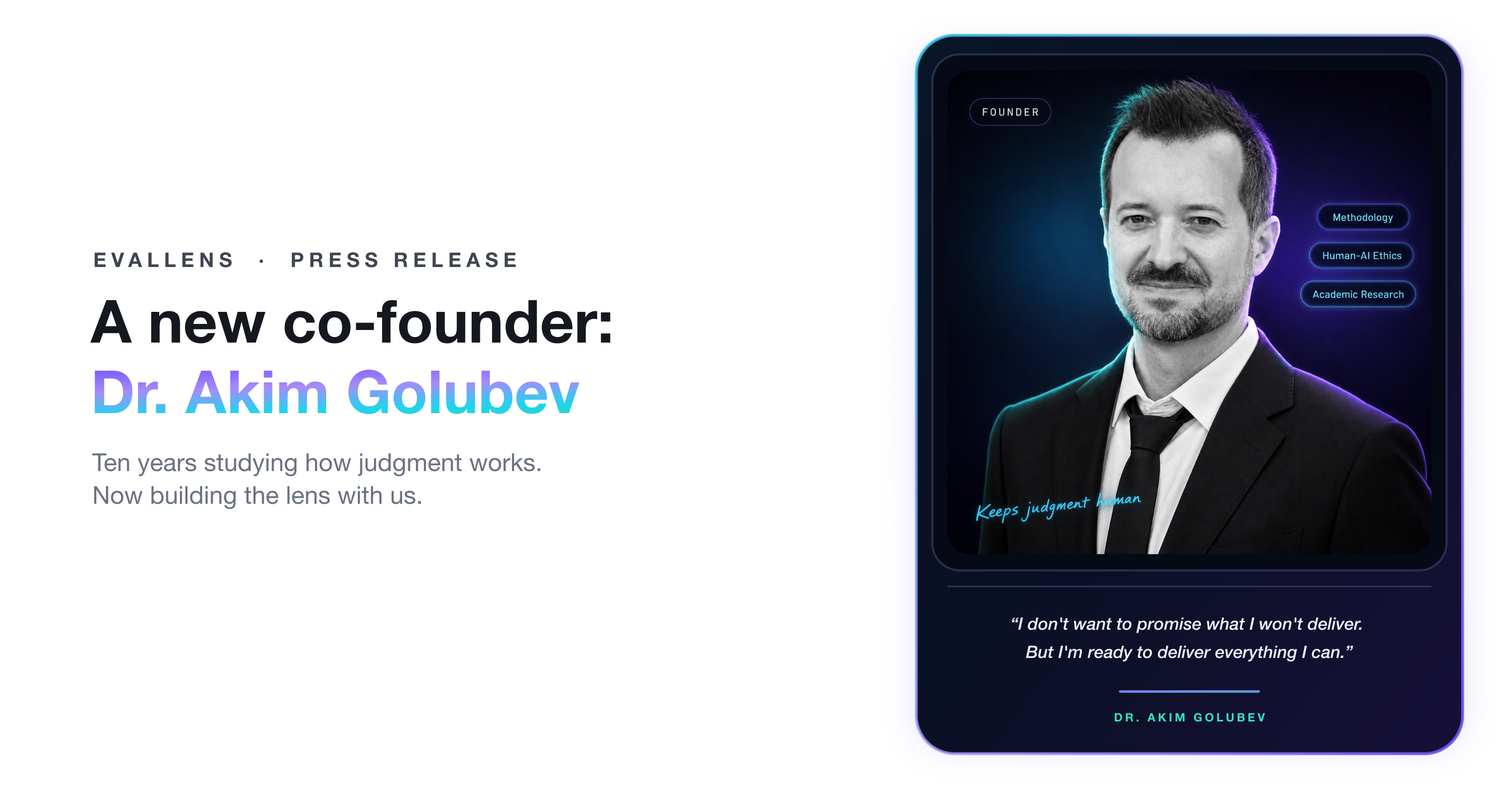
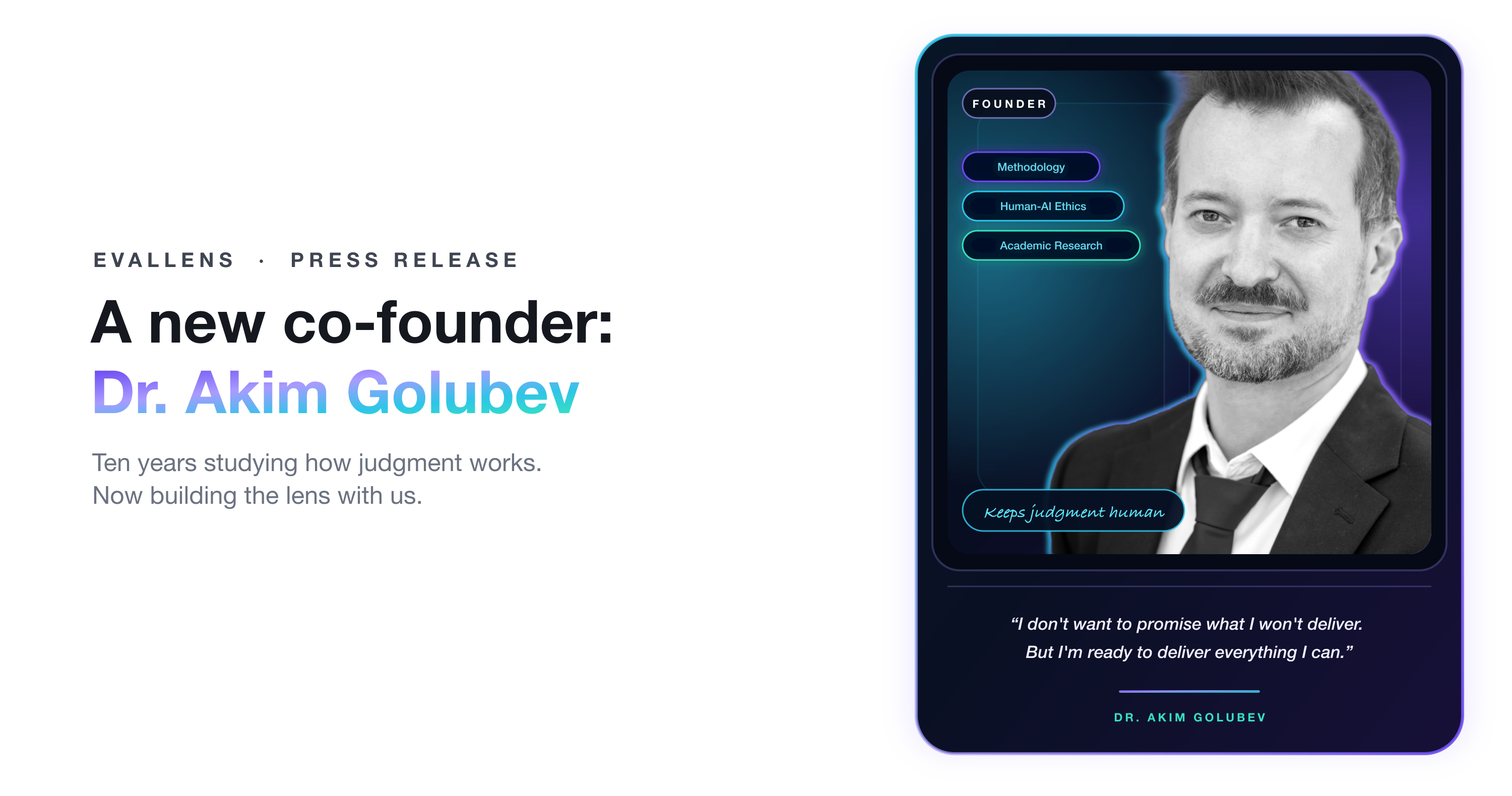
akim v2: realistic photo card, Kim naming everywhere, cover-v3 cache bust

Changed region(s): [[0.62, 0.062, 0.961, 0.7133], [0.217, 0.4652, 0.372, 0.4962], [0.062, 0.4962, 0.186, 0.5272]]

diff --git a/notes/blog/akim-golubev-joins-evallens.md b/notes/blog/akim-golubev-joins-evallens.md
@@ -2,22 +2,22 @@
 slug: akim-golubev-joins-evallens
 category: Press Release
 accent: violet
-title: Dr. Akim Golubev joins EvalLens
+title: Dr. Kim Golubev joins EvalLens
 excerpt: We build software that helps humans judge startups. Our newest co-founder has spent a decade studying how judgment works — and what responsibility means when humans and machines share it.
 date: 2026-08-28
 readMinutes: 5
-cover: /assets/blog/akim-joins/cover-v2.png
+cover: /assets/blog/akim-joins/cover-v3.png
 author: Anonymous Unicorn
 status: draft
 ---
 
-On weekday mornings, Dr. Akim Golubev teaches English at a school in Silicon Valley. Evenings and remote hours belong to the University of Nevada, Las Vegas, where he earned his Ph.D. and picked up an Outstanding Teaching Award on the way out. As of this week, the hours in between belong to us.
+On weekday mornings, Dr. Kim Golubev teaches English at a school in Silicon Valley. Evenings and remote hours belong to the University of Nevada, Las Vegas, where he earned his Ph.D. and picked up an Outstanding Teaching Award on the way out. As of this week, the hours in between belong to us.
 
-Akim is joining EvalLens as a co-founder.
+Kim is joining EvalLens as a co-founder.
 
-## Who is Dr. Akim Golubev?
+## Who is Dr. Kim Golubev?
 
-Dr. Akim Golubev is a professor at the University of Nevada, Las Vegas who also teaches English at a Silicon Valley school, working where literary theory, posthuman studies, and AI meet. He defended his Ph.D. dissertation, [*Posthuman Vital Materialism*](https://oasis.library.unlv.edu/thesesdissertations/5275/), at UNLV in 2025 — an inquiry into what happens to agency, identity, and responsibility when humans stop being the only actors in the room. At EvalLens he'll lead research and academic partnerships.
+Dr. Kim Golubev is a professor at the University of Nevada, Las Vegas who also teaches English at a Silicon Valley school, working where literary theory, posthuman studies, and AI meet. He defended his Ph.D. dissertation, [*Posthuman Vital Materialism*](https://oasis.library.unlv.edu/thesesdissertations/5275/), at UNLV in 2025 — an inquiry into what happens to agency, identity, and responsibility when humans stop being the only actors in the room. At EvalLens he'll lead research and academic partnerships.
 
 The short version of the CV, because it's a good one:
 
@@ -33,21 +33,21 @@ He's on [LinkedIn](https://www.linkedin.com/in/akim-golubev/), where all three o
 
 One of the four principles on our [About page](/company/about) reads: **methodology matters more than the model.** We mean it literally. A scoring system is a theory of judgment with a UI. Rubrics, criteria, structured disagreement, the difference between an opinion and an evidence-backed reading — none of that was invented by AI labs. The humanities have been arguing about how to evaluate work fairly, and what an evaluator owes the work in front of them, for a few centuries longer than machine learning has existed.
 
-Akim has spent a decade inside that argument. His research asks what happens to agency and responsibility when action is distributed across systems, human and otherwise. We ask a smaller version of the same question every day: when AI prepares the analysis and a person makes the call, who owns the decision?
+Kim has spent a decade inside that argument. His research asks what happens to agency and responsibility when action is distributed across systems, human and otherwise. We ask a smaller version of the same question every day: when AI prepares the analysis and a person makes the call, who owns the decision?
 
-What we gain in Akim is someone who can take that answer apart, put it back together, and tell us where it will bend. When we first walked him through the product, he gave us the line we'd happily put on a wall: *"This is the theory becoming application — the thing I wanted to build myself, but had no idea where to even begin."*
+What we gain in Kim is someone who can take that answer apart, put it back together, and tell us where it will bend. When we first walked him through the product, he gave us the line we'd happily put on a wall: *"This is the theory becoming application — the thing I wanted to build myself, but had no idea where to even begin."*
 
 ![Posthumanism as a distributed field of human and nonhuman agency](/assets/blog/akim-joins/posthumanism-distributed-agency.png)
 
 ## Why now
 
-Akim didn't join a startup that happened to have an open seat. He joined because of what EvalLens is today — and what it's about to become.
+Kim didn't join a startup that happened to have an open seat. He joined because of what EvalLens is today — and what it's about to become.
 
 **Today**, EvalLens does one job and does it with receipts: batch evaluation of pitch decks for competitions, accelerators, and VC deal flow. Six specialized lenses read every deck, every score is tied to evidence from the slides, and the organizer makes the final call — a defensible ranking in minutes instead of weeks. That's not a stepping stone we're apologizing for. It's a working product with live events, a fund pilot, and partnerships behind it.
 
 **Next** is the part we've been quietly building toward. AI agents are starting to do work that used to take teams, and someone still signs for the result. Execution is becoming abundant. Responsibility stays scarce. And scarce things acquire a price. Internally we call it the **price of responsibility**: once work is delegated to machines, evaluating that work — and proving who stands behind it — becomes the scarce skill. Everything EvalLens does today is the first stage of that larger arc.
 
-We'll unveil the full vision next week, in this Newsroom. It's the reason a scholar of distributed agency said yes to a startup. Asked what he could commit to, Akim gave the most on-brand answer we've heard: *"I don't want to promise what I won't deliver. But I'm ready to deliver everything I can."* His job starts before the announcement: making sure the theory underneath can hold weight before we ask anyone to stand on it.
+We'll unveil the full vision next week, in this Newsroom. It's the reason a scholar of distributed agency said yes to a startup. Asked what he could commit to, Kim gave the most on-brand answer we've heard: *"I don't want to promise what I won't deliver. But I'm ready to deliver everything I can."* His job starts before the announcement: making sure the theory underneath can hold weight before we ask anyone to stand on it.
 ## What he'll actually be doing
 
 Four things, in rough order of appearance:
@@ -56,15 +56,16 @@ Four things, in rough order of appearance:
 - **Podcasts and conversations.** He has hosted long-form academic interviews before, and we're setting up a studio. You can see where this is going.
 - **Academic pilots.** We're scoping a university pitch-day pilot: student startups get evidence-backed reports, judges get a structured first read, and the leaderboard stays human. Details when they're real.
 - **Being where the arguments happen.** He lives and teaches in the middle of Silicon Valley — demo days, AI meetups, hallway debates included. Somebody from EvalLens should be in those rooms; now somebody is.
+
 ## Common questions
 
-**Who is Dr. Akim Golubev?** Dr. Akim Golubev is a co-founder of EvalLens and a professor at the University of Nevada, Las Vegas, who also teaches English at a Silicon Valley school. He holds a Ph.D. in English Literature from UNLV (2025), is the first Crimean Tatar to earn a Ph.D. in the United States, received UNLV's Outstanding Teaching Award, and his book *Posthuman Vital Materialism* is forthcoming from Palgrave Macmillan.
+**Who is Dr. Kim Golubev?** Dr. Kim (Akim) Golubev is a co-founder of EvalLens and a professor at the University of Nevada, Las Vegas, who also teaches English at a Silicon Valley school. He holds a Ph.D. in English Literature from UNLV (2025), is the first Crimean Tatar to earn a Ph.D. in the United States, received UNLV's Outstanding Teaching Award, and his book *Posthuman Vital Materialism* is forthcoming from Palgrave Macmillan.
 
-**Why did EvalLens add an academic co-founder?** Because evaluation products win on methodology, and a methodology is a theory of judgment. Akim's research on distributed agency covers the exact question EvalLens is built around: when AI prepares the analysis and a person makes the final call, who owns the decision? At EvalLens he leads research and academic partnerships.
+**Why did EvalLens add an academic co-founder?** Because evaluation products win on methodology, and a methodology is a theory of judgment. Kim's research on distributed agency covers the exact question EvalLens is built around: when AI prepares the analysis and a person makes the final call, who owns the decision? At EvalLens he leads research and academic partnerships.
 
-**What will Akim Golubev do at EvalLens?** Four things: research and writing on evaluation and human-AI judgment, podcasts and long-form conversations, academic pilots starting with a university pitch-day program, and representing EvalLens in Silicon Valley, where he lives and teaches.
+**What will Kim Golubev do at EvalLens?** Four things: research and writing on evaluation and human-AI judgment, podcasts and long-form conversations, academic pilots starting with a university pitch-day program, and representing EvalLens in Silicon Valley, where he lives and teaches.
 
-**Who are the founders of EvalLens?** EvalLens has three co-founders: Yaroslav Volovoj (product, strategy, and methodology), Vladislav Starodubov (engineering and architecture), and Dr. Akim Golubev (research and academic partnerships).
+**Who are the founders of EvalLens?** EvalLens has three co-founders: Yaroslav Volovoj (product, strategy, and methodology), Vladislav Starodubov (engineering and architecture), and Dr. Kim Golubev (research and academic partnerships).
 
 **What is the price of responsibility?** The observation that once AI makes execution abundant, responsibility becomes the scarce resource — and scarce things acquire a price. Evaluating AI-delegated work, and proving who stands behind it, is the next problem EvalLens is building for. The full vision lands in this Newsroom next week.
 
@@ -74,6 +75,6 @@ Startup teams usually add co-founders who ship code or close deals. We added som
 
 The bet is simple: evaluation products win on trust, and trust compounds slowly — from methodology you can inspect, and from people who spent years thinking about judgment before it became a product category. That's the bench we're building.
 
-Welcome, Akim. The final call is still the human's, and we just added a very qualified human.
+Welcome, Kim. The final call is still the human's, and we just added a very qualified human.
 
 If you're curious what an evidence-backed read of your pipeline looks like, [book a demo](/demo). If you'd rather argue about posthumanism, he's easy to find.

diff --git a/wiki/product/site/blog/akim-golubev-joins-evallens.md b/wiki/product/site/blog/akim-golubev-joins-evallens.md
@@ -2,22 +2,22 @@
 slug: akim-golubev-joins-evallens
 category: Press Release
 accent: violet
-title: Dr. Akim Golubev joins EvalLens
+title: Dr. Kim Golubev joins EvalLens
 excerpt: We build software that helps humans judge startups. Our newest co-founder has spent a decade studying how judgment works — and what responsibility means when humans and machines share it.
 date: 2026-08-28
 readMinutes: 5
-cover: /assets/blog/akim-joins/cover-v2.png
+cover: /assets/blog/akim-joins/cover-v3.png
 author: Anonymous Unicorn
 status: draft
 ---
 
-On weekday mornings, Dr. Akim Golubev teaches English at a school in Silicon Valley. Evenings and remote hours belong to the University of Nevada, Las Vegas, where he earned his Ph.D. and picked up an Outstanding Teaching Award on the way out. As of this week, the hours in between belong to us.
+On weekday mornings, Dr. Kim Golubev teaches English at a school in Silicon Valley. Evenings and remote hours belong to the University of Nevada, Las Vegas, where he earned his Ph.D. and picked up an Outstanding Teaching Award on the way out. As of this week, the hours in between belong to us.
 
-Akim is joining EvalLens as a co-founder.
+Kim is joining EvalLens as a co-founder.
 
-## Who is Dr. Akim Golubev?
+## Who is Dr. Kim Golubev?
 
-Dr. Akim Golubev is a professor at the University of Nevada, Las Vegas who also teaches English at a Silicon Valley school, working where literary theory, posthuman studies, and AI meet. He defended his Ph.D. dissertation, [*Posthuman Vital Materialism*](https://oasis.library.unlv.edu/thesesdissertations/5275/), at UNLV in 2025 — an inquiry into what happens to agency, identity, and responsibility when humans stop being the only actors in the room. At EvalLens he'll lead research and academic partnerships.
+Dr. Kim Golubev is a professor at the University of Nevada, Las Vegas who also teaches English at a Silicon Valley school, working where literary theory, posthuman studies, and AI meet. He defended his Ph.D. dissertation, [*Posthuman Vital Materialism*](https://oasis.library.unlv.edu/thesesdissertations/5275/), at UNLV in 2025 — an inquiry into what happens to agency, identity, and responsibility when humans stop being the only actors in the room. At EvalLens he'll lead research and academic partnerships.
 
 The short version of the CV, because it's a good one:
 
@@ -33,21 +33,21 @@ He's on [LinkedIn](https://www.linkedin.com/in/akim-golubev/), where all three o
 
 One of the four principles on our [About page](/company/about) reads: **methodology matters more than the model.** We mean it literally. A scoring system is a theory of judgment with a UI. Rubrics, criteria, structured disagreement, the difference between an opinion and an evidence-backed reading — none of that was invented by AI labs. The humanities have been arguing about how to evaluate work fairly, and what an evaluator owes the work in front of them, for a few centuries longer than machine learning has existed.
 
-Akim has spent a decade inside that argument. His research asks what happens to agency and responsibility when action is distributed across systems, human and otherwise. We ask a smaller version of the same question every day: when AI prepares the analysis and a person makes the call, who owns the decision?
+Kim has spent a decade inside that argument. His research asks what happens to agency and responsibility when action is distributed across systems, human and otherwise. We ask a smaller version of the same question every day: when AI prepares the analysis and a person makes the call, who owns the decision?
 
-What we gain in Akim is someone who can take that answer apart, put it back together, and tell us where it will bend. When we first walked him through the product, he gave us the line we'd happily put on a wall: *"This is the theory becoming application — the thing I wanted to build myself, but had no idea where to even begin."*
+What we gain in Kim is someone who can take that answer apart, put it back together, and tell us where it will bend. When we first walked him through the product, he gave us the line we'd happily put on a wall: *"This is the theory becoming application — the thing I wanted to build myself, but had no idea where to even begin."*
 
 ![Posthumanism as a distributed field of human and nonhuman agency](/assets/blog/akim-joins/posthumanism-distributed-agency.png)
 
 ## Why now
 
-Akim didn't join a startup that happened to have an open seat. He joined because of what EvalLens is today — and what it's about to become.
+Kim didn't join a startup that happened to have an open seat. He joined because of what EvalLens is today — and what it's about to become.
 
 **Today**, EvalLens does one job and does it with receipts: batch evaluation of pitch decks for competitions, accelerators, and VC deal flow. Six specialized lenses read every deck, every score is tied to evidence from the slides, and the organizer makes the final call — a defensible ranking in minutes instead of weeks. That's not a stepping stone we're apologizing for. It's a working product with live events, a fund pilot, and partnerships behind it.
 
 **Next** is the part we've been quietly building toward. AI agents are starting to do work that used to take teams, and someone still signs for the result. Execution is becoming abundant. Responsibility stays scarce. And scarce things acquire a price. Internally we call it the **price of responsibility**: once work is delegated to machines, evaluating that work — and proving who stands behind it — becomes the scarce skill. Everything EvalLens does today is the first stage of that larger arc.
 
-We'll unveil the full vision next week, in this Newsroom. It's the reason a scholar of distributed agency said yes to a startup. Asked what he could commit to, Akim gave the most on-brand answer we've heard: *"I don't want to promise what I won't deliver. But I'm ready to deliver everything I can."* His job starts before the announcement: making sure the theory underneath can hold weight before we ask anyone to stand on it.
+We'll unveil the full vision next week, in this Newsroom. It's the reason a scholar of distributed agency said yes to a startup. Asked what he could commit to, Kim gave the most on-brand answer we've heard: *"I don't want to promise what I won't deliver. But I'm ready to deliver everything I can."* His job starts before the announcement: making sure the theory underneath can hold weight before we ask anyone to stand on it.
 ## What he'll actually be doing
 
 Four things, in rough order of appearance:
@@ -56,15 +56,16 @@ Four things, in rough order of appearance:
 - **Podcasts and conversations.** He has hosted long-form academic interviews before, and we're setting up a studio. You can see where this is going.
 - **Academic pilots.** We're scoping a university pitch-day pilot: student startups get evidence-backed reports, judges get a structured first read, and the leaderboard stays human. Details when they're real.
 - **Being where the arguments happen.** He lives and teaches in the middle of Silicon Valley — demo days, AI meetups, hallway debates included. Somebody from EvalLens should be in those rooms; now somebody is.
+
 ## Common questions
 
-**Who is Dr. Akim Golubev?** Dr. Akim Golubev is a co-founder of EvalLens and a professor at the University of Nevada, Las Vegas, who also teaches English at a Silicon Valley school. He holds a Ph.D. in English Literature from UNLV (2025), is the first Crimean Tatar to earn a Ph.D. in the United States, received UNLV's Outstanding Teaching Award, and his book *Posthuman Vital Materialism* is forthcoming from Palgrave Macmillan.
+**Who is Dr. Kim Golubev?** Dr. Kim (Akim) Golubev is a co-founder of EvalLens and a professor at the University of Nevada, Las Vegas, who also teaches English at a Silicon Valley school. He holds a Ph.D. in English Literature from UNLV (2025), is the first Crimean Tatar to earn a Ph.D. in the United States, received UNLV's Outstanding Teaching Award, and his book *Posthuman Vital Materialism* is forthcoming from Palgrave Macmillan.
 
-**Why did EvalLens add an academic co-founder?** Because evaluation products win on methodology, and a methodology is a theory of judgment. Akim's research on distributed agency covers the exact question EvalLens is built around: when AI prepares the analysis and a person makes the final call, who owns the decision? At EvalLens he leads research and academic partnerships.
+**Why did EvalLens add an academic co-founder?** Because evaluation products win on methodology, and a methodology is a theory of judgment. Kim's research on distributed agency covers the exact question EvalLens is built around: when AI prepares the analysis and a person makes the final call, who owns the decision? At EvalLens he leads research and academic partnerships.
 
-**What will Akim Golubev do at EvalLens?** Four things: research and writing on evaluation and human-AI judgment, podcasts and long-form conversations, academic pilots starting with a university pitch-day program, and representing EvalLens in Silicon Valley, where he lives and teaches.
+**What will Kim Golubev do at EvalLens?** Four things: research and writing on evaluation and human-AI judgment, podcasts and long-form conversations, academic pilots starting with a university pitch-day program, and representing EvalLens in Silicon Valley, where he lives and teaches.
 
-**Who are the founders of EvalLens?** EvalLens has three co-founders: Yaroslav Volovoj (product, strategy, and methodology), Vladislav Starodubov (engineering and architecture), and Dr. Akim Golubev (research and academic partnerships).
+**Who are the founders of EvalLens?** EvalLens has three co-founders: Yaroslav Volovoj (product, strategy, and methodology), Vladislav Starodubov (engineering and architecture), and Dr. Kim Golubev (research and academic partnerships).
 
 **What is the price of responsibility?** The observation that once AI makes execution abundant, responsibility becomes the scarce resource — and scarce things acquire a price. Evaluating AI-delegated work, and proving who stands behind it, is the next problem EvalLens is building for. The full vision lands in this Newsroom next week.
 
@@ -74,6 +75,6 @@ Startup teams usually add co-founders who ship code or close deals. We added som
 
 The bet is simple: evaluation products win on trust, and trust compounds slowly — from methodology you can inspect, and from people who spent years thinking about judgment before it became a product category. That's the bench we're building.
 
-Welcome, Akim. The final call is still the human's, and we just added a very qualified human.
+Welcome, Kim. The final call is still the human's, and we just added a very qualified human.
 
 If you're curious what an evidence-backed read of your pipeline looks like, [book a demo](/demo). If you'd rather argue about posthumanism, he's easy to find.

diff --git a/notes/podcast/2026-09-akim-ep1-price-of-responsibility.md b/notes/podcast/2026-09-akim-ep1-price-of-responsibility.md
@@ -1,17 +1,17 @@
 # EvalLens Podcast · Episode 1 — "The Price of Responsibility"
 ## План повествования v2 (после реверс-инжиниринга на панели из 9 слушателей)
 
-Хосты: Yaroslav + Dr. Akim Golubev · Студия · Язык: EN · Хронометраж: **30–35 мин**
+Хосты: Yaroslav + Dr. Kim Golubev · Студия · Язык: EN · Хронометраж: **30–35 мин**
 Публичная рамка: всё видение подаём как **EvalLens** («Lineage» не произносим; стадии, R-уровни,
 RaaS-термин, цифры stake/pool не раскрываем). Guardrails: EvalLens без «e», no «AI jury»,
 финальное решение всегда за человеком, произношение «EvalLens» (не «evil»).
 
 Правила v2: **одно число на блок** (остальные в шоуноты) · в каждом блоке либо история, либо
 сцена · прямые адресации трём аудиториям (организаторы заявок · агентства, продающие работу
-агентов · enterprise-инновации) · регалии Акима раздаём по ходу, не списком.
+агентов · enterprise-инновации) · регалии Кима раздаём по ходу, не списком.
 
 Арка: сцена с деньгами → кто подписывается → рынок уже прайсит ответственность (но страхует не
-то) → кто судит → человек в петле (глубина Акима) → куда идёт EvalLens.
+то) → кто судит → человек в петле (глубина Кима) → куда идёт EvalLens.
 
 ---
 
@@ -30,7 +30,7 @@ RaaS-термин, цифры stake/pool не раскрываем). Guardrails:
 ## 1 · WELCOME ABOARD (0:45–5:00)
 
 > "Welcome to the first EvalLens podcast. I'm Yaroslav, co-founder of EvalLens — and I'm
-> genuinely happy to welcome aboard a new member of the founding team: Dr. Akim Golubev."
+> genuinely happy to welcome aboard a new member of the founding team: Dr. Kim Golubev."
 
 Коротко где он: «joins us from the middle of Silicon Valley». Остальные регалии НЕ здесь —
 раздаём по эпизоду (Macmillan/PhD → блок про суждение; «first
@@ -58,7 +58,7 @@ Crimean Tatar Ph.D. in the US» → финал, личная нота).
 - Живой пример-мост (1 мин, для университетов/грантов): ERC запретила AI в оценке заявок —
   «judgment cannot be delegated». Регулятор уже провёл нашу границу: администрирование — можно,
   суждение — человек. (кросс-промо статьи в Newsroom)
-- Акиму: **"Philosophy has argued about moral agency for centuries. Is 'the human signs, the
+- Киму: **"Philosophy has argued about moral agency for centuries. Is 'the human signs, the
   machine acts' a real answer or a legal fiction?"**
 - Спор: «ответственность нельзя делегировать» vs «она уже де-факто делегирована — просто никто
   не оформил бумаги».
@@ -81,7 +81,7 @@ Crimean Tatar Ph.D. in the US» → финал, личная нота).
 - Мини-вставка про identity (2 мин, бывший блок 4): у агентов появляются паспорта — реестры,
   agent cards, репутация. **"Passports are here. But who grades the driving test?"** (identity ≠
   качество работы; реестры пусты, потому что некому верифицировать)
-- Акиму: **"When responsibility gets a price tag, does it become more real — or less human?"**
+- Киму: **"When responsibility gets a price tag, does it become more real — or less human?"**
 
 ## 4 · WHO JUDGES THE JUDGES? (19:00–26:00) — суждение, LLM-as-judge и мост к сегодняшнему EvalLens
 
@@ -94,7 +94,7 @@ Crimean Tatar Ph.D. in the US» → финал, личная нота).
   applications, one rubric, three tired reviewers. Same judgment problem, human scale. That's
   the EvalLens you can use this Monday." (одна фраза «batch of applications → evidence-backed
   reports → human final call»)
-- История Акима (попросить заранее): случай из преподавания/грейдинга, где два честных
+- История Кима (попросить заранее): случай из преподавания/грейдинга, где два честных
   оценщика разошлись — и что это говорит о суждении. (здесь естественно всплывает: его PhD,
   грядущая книга в **Palgrave Macmillan** — «человек, который написал книгу о суждении»)
 - **"Humanities have graded ambiguous work for centuries. What does a literature department
@@ -102,7 +102,7 @@ Crimean Tatar Ph.D. in the US» → финал, личная нота).
 - Спор: «судейство автоматизируется как всё остальное» vs «суждение — последняя человеческая
   монополия».
 
-## 5 · THE HUMAN IN THE LOOP (26:00–31:00) — линза Акима: distributed agency
+## 5 · THE HUMAN IN THE LOOP (26:00–31:00) — линза Кима: distributed agency
 
 Без чисел. Глубина. (Бизнес-слушатель уже прогрет, культурный слушатель — на пике.)
 
@@ -121,7 +121,7 @@ Crimean Tatar Ph.D. in the US» → финал, личная нота).
   decks in, ranked evidence out, your decision. The next chapter is bigger: execution is
   becoming abundant, responsibility is becoming the scarce asset. Full vision — in our
   Newsroom, next week."**
-- Личная нота (регалия к месту): «Akim is the first Crimean Tatar to earn a Ph.D. in the United
+- Личная нота (регалия к месту): «Kim is the first Crimean Tatar to earn a Ph.D. in the United
   States. A man who carries a first for an entire people doesn't take signing his name lightly.»
 - Финальный вопрос: **"One promise to our listeners — what will you personally deliver here?"**
   (ожидаемый калбэк: "I don't want to promise what I won't deliver…")
@@ -133,12 +133,12 @@ Crimean Tatar Ph.D. in the US» → финал, личная нота).
 
 - **Клипы (7 кандидатов):** cold open ($2,000 сцена) · «who signs — what is that signature
   worth» · «they insure the driver, nobody guarantees the ride» · «who grades the driving
-  test» · адресация агентствам («this question is your payroll») · ответ Акима про
+  test» · адресация агентствам («this question is your payroll») · ответ Кима про
   posthumanism · promise-калбэк финала.
 - **Роли:** Ярослав — сцены, числа (по одному на блок, всегда с источником: «Gartner says…»,
-  «a RAND study found…»), адресации сегментам. Аким — глубина, истории, вторая сторона споров.
+  «a RAND study found…»), адресации сегментам. Ким — глубина, истории, вторая сторона споров.
   В спорах меняемся ролями скептик/теоретик от блока к блоку.
-- **До записи:** попросить у Акима 2 истории (класс/грейдинг) · прогон терминов (EvalLens,
+- **До записи:** попросить у Кима 2 истории (класс/грейдинг) · прогон терминов (EvalLens,
   no «AI jury», no «Lineage», без внутренних цифр) · тайм-чек на 35 мин жёсткий.
 - **Ретеншн-дизайн:** лучший материал теперь в первых 60 секундах; каждые ~6 минут — смена
   регистра (сцена → спор → история → адресация); три прямые адресации сегментам (агентства

diff --git a/notes/social/2026-08-28-akim-cofounder.md b/notes/social/2026-08-28-akim-cofounder.md
@@ -1,10 +1,10 @@
-# Анонс кофаундера Dr. Akim Golubev — social pack (v2, EN, Unicorn-нарратив)
+# Анонс кофаундера Dr. Kim Golubev — social pack (v2, EN, Unicorn-нарратив)
 mode: REPACK · pillar: Build-in-public + Future narrative (тизер видения) · voice: Yaroslav
 
 Все площадки — EN. Стиль — нарративная структура блог-канона (cold open → слом
 очевидного → принцип → цитата → тизер → тёплый финал) в фаундер-регистре от первого
 лица, без подписи Unicorn. Публиковать в день выхода статьи
-`/blog/akim-golubev-joins-evallens`. Медиа — брендовый кард Акима (Supabase:
+`/blog/akim-golubev-joins-evallens`. Медиа — брендовый кард Кима (Supabase:
 media/photos/akim-joins/akim-golubev.webp).
 
 ---
@@ -15,11 +15,11 @@ On weekday mornings, our newest co-founder teaches English at a school in Silico
 
 In the evenings he teaches at the university where he earned his doctorate. As of this week, the hours in between belong to EvalLens.
 
-Meet Dr. Akim Golubev.
+Meet Dr. Kim Golubev.
 
 Startups usually add co-founders who ship code or close deals. We added a scholar of judgment. On purpose.
 
-Here's the logic. A scoring system is a theory of judgment with a UI. At EvalLens, AI prepares the evidence and a human makes the final call. Akim spent ten years on exactly that boundary: what happens to agency and responsibility when humans are no longer the only actors in the room.
+Here's the logic. A scoring system is a theory of judgment with a UI. At EvalLens, AI prepares the evidence and a human makes the final call. Kim spent ten years on exactly that boundary: what happens to agency and responsibility when humans are no longer the only actors in the room.
 
 The credentials carry their own weight:
 
@@ -29,13 +29,13 @@ The credentials carry their own weight:
 • "Posthuman Vital Materialism" forthcoming from Palgrave Macmillan
 • Teaches English at a school in the middle of Silicon Valley
 
-And the timing is not an accident. Next week we unveil the next chapter of EvalLens. Akim joined because of what comes next, not only because of what exists today.
+And the timing is not an accident. Next week we unveil the next chapter of EvalLens. Kim joined because of what comes next, not only because of what exists today.
 
 When I asked what he could commit to, he said: "I don't want to promise what I won't deliver. But I'm ready to deliver everything I can."
 
 That's the hire.
 
-Welcome aboard, Akim.
+Welcome aboard, Kim.
 
 [фаундер: одна живая деталь с созвона, 1 предложение]
 
@@ -52,7 +52,7 @@ His LinkedIn: https://www.linkedin.com/in/akim-golubev/
 
 He has never shipped production code. That's exactly why we brought him on.
 
-2/ Meet Dr. Akim Golubev.
+2/ Meet Dr. Kim Golubev.
 
 Ph.D. in English Literature, UNLV, 2025.
 First Crimean Tatar to earn a Ph.D. in the United States.
@@ -64,7 +64,7 @@ Teaches in Silicon Valley.
 
 Sounds simple. Underneath sits a hard question: when work is shared between humans and machines, who owns the decision?
 
-4/ That question is Akim's entire academic field.
+4/ That question is Kim's entire academic field.
 
 His dissertation builds a theory of distributed agency: how responsibility works when humans are not the only actors in the room.
 
@@ -78,7 +78,7 @@ Scarce things acquire a price.
 
 6/ Next week we unveil what that means for EvalLens.
 
-Akim joined because of what comes next, not only what exists today.
+Kim joined because of what comes next, not only what exists today.
 
 7/ When I asked what he could commit to:
 
@@ -98,11 +98,11 @@ Say hi. He answers arguments about posthumanism faster than emails.
 
 Our new co-founder doesn't write code.
 
-On weekday mornings, Dr. Akim Golubev teaches English at a school in Silicon Valley. In the evenings he teaches at UNLV, where he earned his Ph.D. and an Outstanding Teaching Award. The first Crimean Tatar to earn a Ph.D. in the United States. A book forthcoming from Palgrave Macmillan.
+On weekday mornings, Dr. Kim Golubev teaches English at a school in Silicon Valley. In the evenings he teaches at UNLV, where he earned his Ph.D. and an Outstanding Teaching Award. The first Crimean Tatar to earn a Ph.D. in the United States. A book forthcoming from Palgrave Macmillan.
 
 Why does an evaluation company need a scholar of judgment?
 
-Because a scoring system is a theory of judgment with a UI. AI prepares the evidence, a human makes the final call. Akim spent ten years studying exactly that boundary: what happens to responsibility when work is shared between humans and machines.
+Because a scoring system is a theory of judgment with a UI. AI prepares the evidence, a human makes the final call. Kim spent ten years studying exactly that boundary: what happens to responsibility when work is shared between humans and machines.
 
 One more thing. Next week we unveil the next chapter of EvalLens. He joined because of it.
 
@@ -112,9 +112,9 @@ Full story on the blog: https://evallens.io/blog/akim-golubev-joins-evallens
 
 ---
 
-Факты: PhD/диссертация → https://oasis.library.unlv.edu/thesesdissertations/5275/ · первый крымский татарин + награда → https://akim-golubev.com/ · Macmillan → решение Ярослава 28.08 (условия контракта не упоминаем) · Harker School + co-founder headline → https://www.linkedin.com/in/akim-golubev/ · цитата → колл 28.08, предварительно согласована Ярославом, ждёт ОК Акима · «next week» → решение Ярослава 28.08.
+Факты: PhD/диссертация → https://oasis.library.unlv.edu/thesesdissertations/5275/ · первый крымский татарин + награда → https://akim-golubev.com/ · Macmillan → решение Ярослава 28.08 (условия контракта не упоминаем) · Harker School + co-founder headline → https://www.linkedin.com/in/akim-golubev/ · цитата → колл 28.08, предварительно согласована Ярославом, ждёт ОК Кима · «next week» → решение Ярослава 28.08.
 
-Слоты для фаундера: [LinkedIn: живая деталь с созвона] · [Владислав: сид-коммент] · тег Акима руками.
+Слоты для фаундера: [LinkedIn: живая деталь с созвона] · [Владислав: сид-коммент] · тег Кима руками.
 
 Медиа: брендовый кард (webp в Supabase) — LinkedIn пост, X твит 2, TG пост.
 
